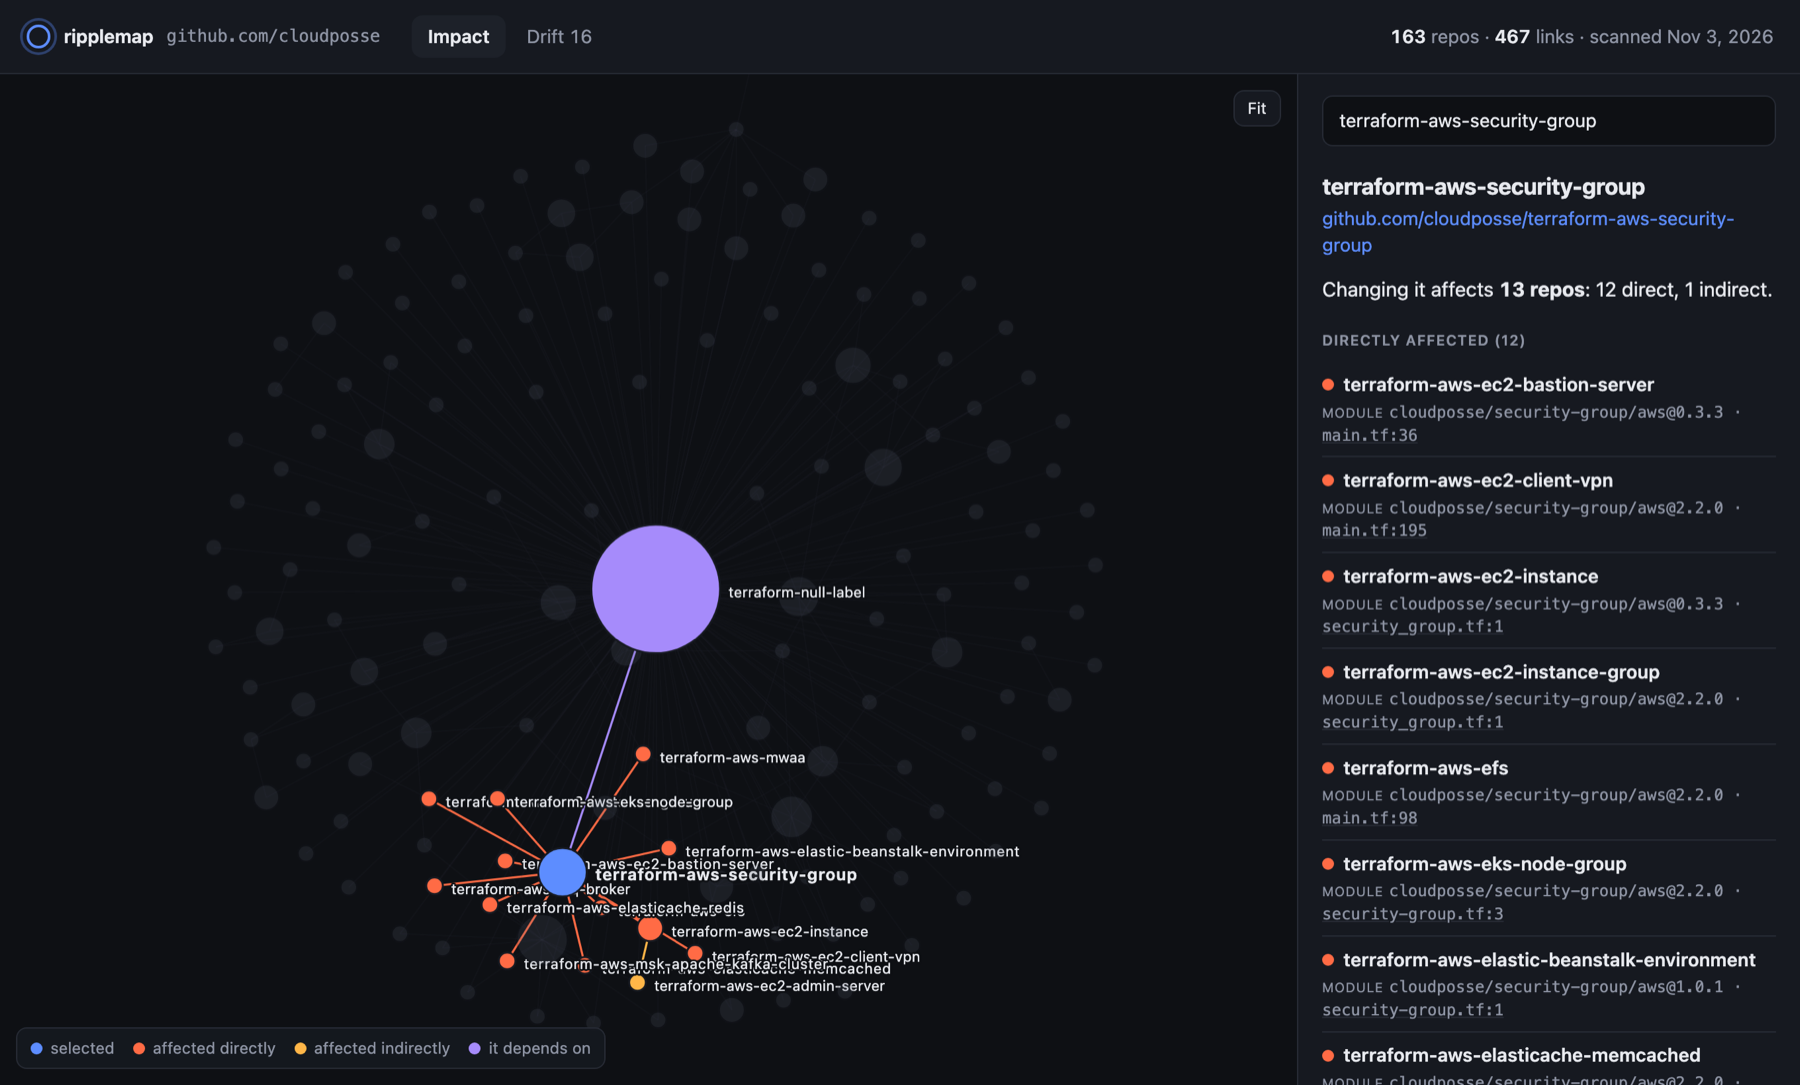
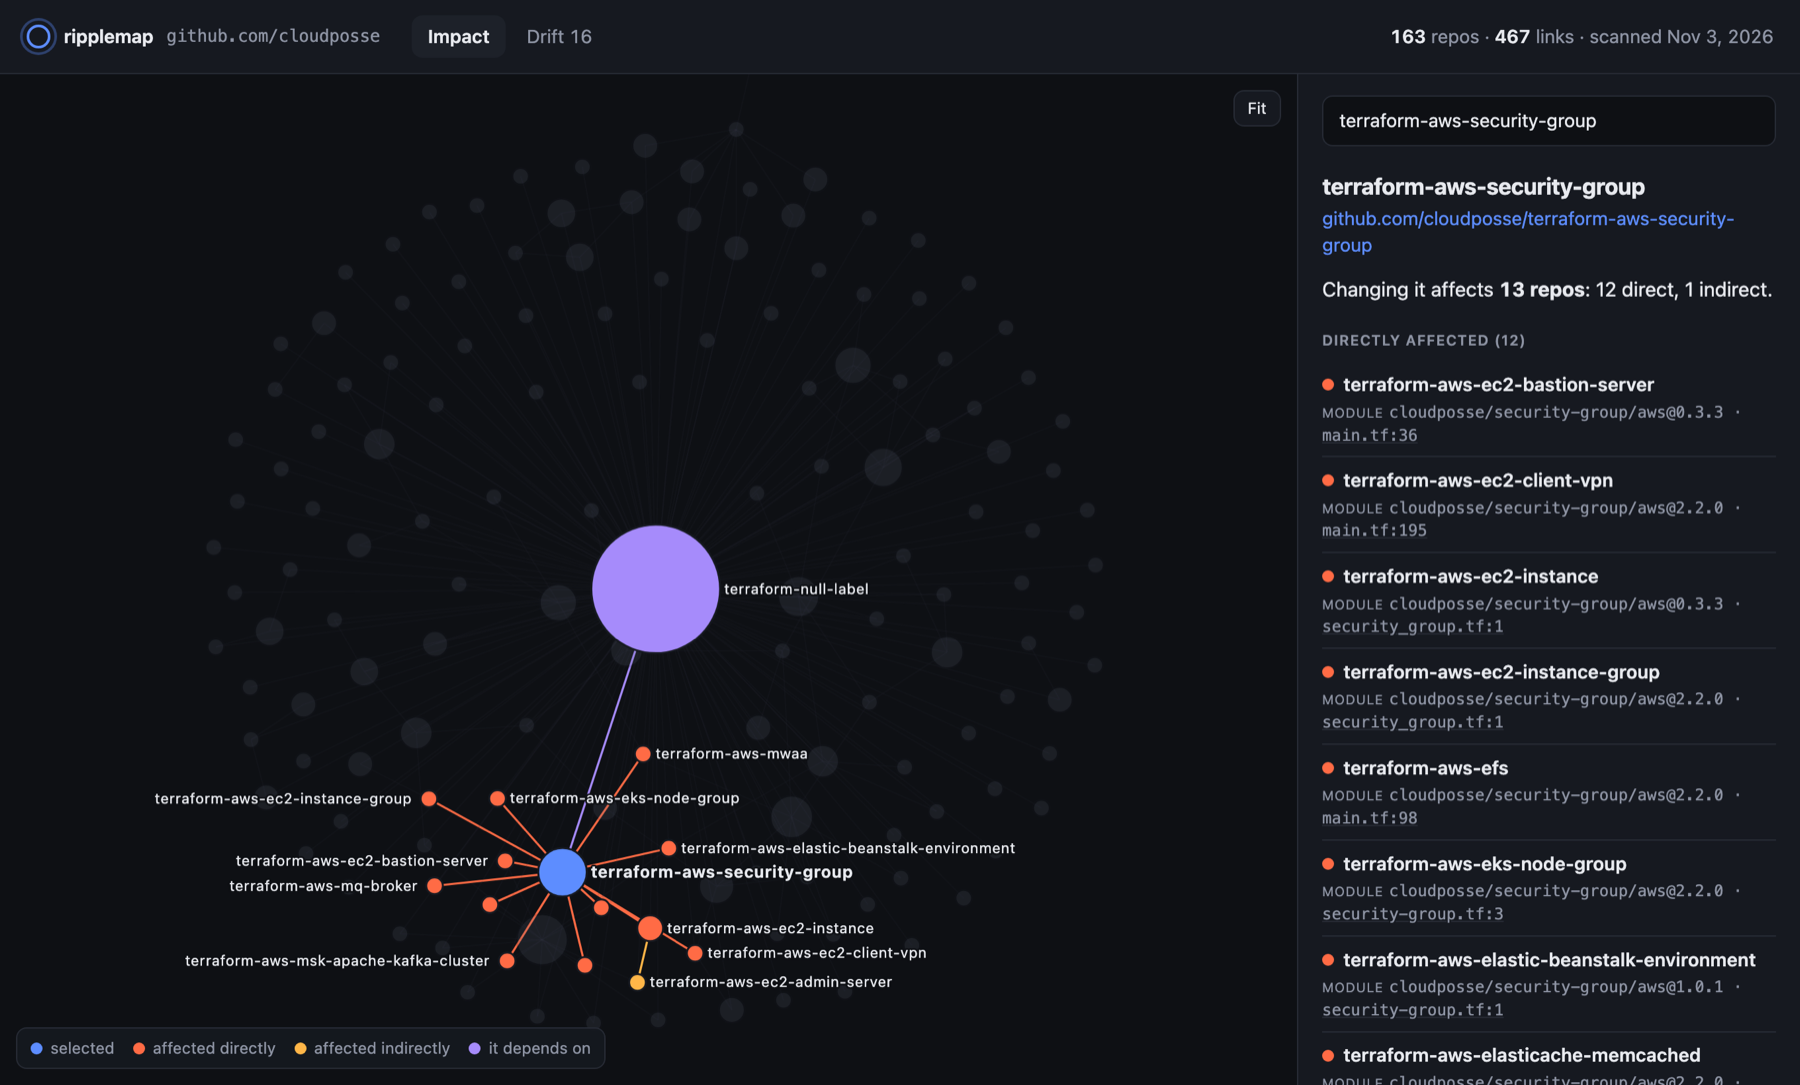
Report: collision-free labels and zoom to selection
Labels move to their own layer above every node and are placed in
priority order (selected, direct, depends-on, indirect; hubs in the
overview), trying four sides of each node and skipping any that would
overlap another label, a node, or the legend. Labels keep a constant
on-screen size and re-place on zoom and pan.

Selecting a repo from search, the list, drift or a #repo= link zooms
to it and everything it lights up.

diff --git a/assets/report.js b/assets/report.js
@@ -172,13 +172,6 @@
   const view = { x: 0, y: 0, k: 1 };
 
   const radius = (node) => 4 + Math.sqrt(node.consumers) * 2.2;
-  const hubs = new Set(
-    [...nodes]
-      .filter((n) => n.consumers > 0)
-      .sort((a, b) => b.consumers - a.consumers)
-      .slice(0, 12)
-      .map((n) => n.id),
-  );
 
   function draw() {
     for (const pair of pairs) {
@@ -186,15 +179,15 @@
       $('edges').append(pair.el);
     }
     for (const node of nodes) {
-      const r = radius(node);
-      node.el = svg('g', { class: `node${hubs.has(node.id) ? ' hub' : ''}` });
-      node.el.append(svg('circle', { r }));
-      const label = svg('text', { x: r + 4, y: 4 });
-      label.textContent = short(node.id);
-      node.el.append(label);
+      node.el = svg('g', { class: 'node' });
+      node.el.append(svg('circle', { r: radius(node) }));
       node.el.addEventListener('pointerenter', () => showTooltip(node));
       node.el.addEventListener('pointerleave', () => (tooltip.hidden = true));
       $('nodes').append(node.el);
+      // Labels live in their own layer above every circle, so no node can cover text.
+      node.label = svg('text', { class: 'label' });
+      node.label.textContent = short(node.id);
+      $('labels').append(node.label);
     }
     position();
   }
@@ -209,40 +202,134 @@
       pair.el.setAttribute('x2', b.x);
       pair.el.setAttribute('y2', b.y);
     }
+    scheduleLabels();
   }
 
   function applyView() {
     viewport.setAttribute('transform', `translate(${view.x},${view.y}) scale(${view.k})`);
     // Labels and outlines keep the same on-screen size at any zoom.
     graph.style.setProperty('--k', String(view.k));
+    scheduleLabels();
   }
 
-  function fit() {
-    if (!nodes.length) return;
-    // Fit the bulk of the graph; a few small separate groups shouldn't shrink everything else.
-    const trim = nodes.length >= 40 ? 0.03 : 0;
+  /** Zooms so `list` fills the graph. `trim` ignores that share of outliers on each side. */
+  function fitNodes(list, { trim = 0, maxZoom = 2.5, pad = 70 } = {}) {
+    if (!list.length) return;
     const range = (values) => {
       const sorted = [...values].sort((a, b) => a - b);
       const at = (q) => sorted[Math.min(sorted.length - 1, Math.max(0, Math.round(q * (sorted.length - 1))))];
       return [at(trim), at(1 - trim)];
     };
-    const [minX, maxX] = range(nodes.map((n) => n.x));
-    const [minY, maxY] = range(nodes.map((n) => n.y));
+    const [minX, maxX] = range(list.map((n) => n.x));
+    const [minY, maxY] = range(list.map((n) => n.y));
     const w = graph.clientWidth;
     const hgt = graph.clientHeight;
-    const pad = 70;
-    view.k = Math.min((w - pad * 2) / Math.max(maxX - minX, 1), (hgt - pad * 2) / Math.max(maxY - minY, 1), 2.5);
+    view.k = Math.min((w - pad * 2) / Math.max(maxX - minX, 1), (hgt - pad * 2) / Math.max(maxY - minY, 1), maxZoom);
     view.x = w / 2 - ((minX + maxX) / 2) * view.k;
     view.y = hgt / 2 - ((minY + maxY) / 2) * view.k;
     applyView();
   }
 
-  function centerOn(id) {
-    const node = nodeById.get(id);
-    if (!node) return;
-    view.x = graph.clientWidth / 2 - node.x * view.k;
-    view.y = graph.clientHeight / 2 - node.y * view.k;
-    applyView();
+  // The bulk of the graph; a few small separate groups shouldn't shrink everything else.
+  const fit = () => fitNodes(nodes, { trim: nodes.length >= 40 ? 0.03 : 0 });
+
+  /** Zooms to the selected repo and everything lit up with it, leaving room for their labels. */
+  function focusSelection() {
+    const lit = nodes.filter((n) => n.el.classList.contains('lit'));
+    if (lit.length === 1) {
+      view.k = Math.max(view.k, 1.5);
+      view.x = graph.clientWidth / 2 - lit[0].x * view.k;
+      view.y = graph.clientHeight / 2 - lit[0].y * view.k;
+      applyView();
+    } else {
+      fitNodes(lit, { maxZoom: 4, pad: 110 });
+    }
+  }
+
+  // ---------------------------------------------------------------------------
+  // Labels: show as many as fit without overlapping each other or any node, most important first.
+
+  const measure = document.createElement('canvas').getContext('2d');
+  const labelFont = getComputedStyle(document.body).fontFamily;
+  const LABEL = { normal: { size: 11, weight: 400, h: 13 }, strong: { size: 12.5, weight: 650, h: 15 } };
+
+  function textWidth(node, style) {
+    const key = style === LABEL.strong ? 'wStrong' : 'w';
+    if (node[key] === undefined) {
+      measure.font = `${style.weight} ${style.size}px ${labelFont}`;
+      // Canvas measures a little narrower than SVG renders; pad so labels never touch a dot.
+      node[key] = measure.measureText(short(node.id)).width * 1.06 + 2;
+    }
+    return node[key];
+  }
+
+  let labelFrame = 0;
+  function scheduleLabels() {
+    if (!labelFrame) labelFrame = requestAnimationFrame(placeLabels);
+  }
+
+  function placeLabels() {
+    labelFrame = 0;
+    const width = graph.clientWidth;
+    const height = graph.clientHeight;
+    const onScreen = (n) => ({ x: n.x * view.k + view.x, y: n.y * view.k + view.y, r: radius(n) * view.k });
+    const has = (n, cls) => n.el.classList.contains(cls);
+
+    let wanted;
+    let obstacles;
+    if (selected) {
+      const rank = (n) => (n.id === selected ? 0 : has(n, 'direct') ? 1 : has(n, 'dependency') ? 2 : 3);
+      wanted = nodes.filter((n) => has(n, 'lit')).sort((a, b) => rank(a) - rank(b) || b.consumers - a.consumers);
+      obstacles = wanted; // faded nodes may sit under a label
+    } else {
+      wanted = nodes.filter((n) => n.consumers > 0).sort((a, b) => b.consumers - a.consumers).slice(0, 40);
+      // Only the hubs block labels; small leaves can sit under the text, which has an outline.
+      obstacles = wanted;
+    }
+    const mustShow = selected ? nodeById.get(selected) : wanted[0];
+    const circles = obstacles.map((n) => ({ node: n, ...onScreen(n) }));
+    // The legend and the Fit button float over the graph, so labels avoid them too.
+    const box = graph.getBoundingClientRect();
+    const placed = [...document.querySelectorAll('.legend, #fit')].map((el) => {
+      const r = el.getBoundingClientRect();
+      return { x: r.left - box.left - 4, y: r.top - box.top - 4, w: r.width + 8, h: r.height + 8 };
+    });
+
+    const hitsLabel = (a) => placed.some((b) => a.x < b.x + b.w && b.x < a.x + a.w && a.y < b.y + b.h && b.y < a.y + a.h);
+    const hitsNode = (rect) =>
+      circles.some((c) => {
+        const cx = Math.max(rect.x, Math.min(c.x, rect.x + rect.w));
+        const cy = Math.max(rect.y, Math.min(c.y, rect.y + rect.h));
+        return (c.x - cx) ** 2 + (c.y - cy) ** 2 < (c.r + 1.5) ** 2;
+      });
+    const inView = (rect) => rect.x >= 4 && rect.y >= 4 && rect.x + rect.w <= width - 4 && rect.y + rect.h <= height - 4;
+
+    const shown = new Set();
+    for (const node of wanted) {
+      const c = onScreen(node);
+      const style = node.id === selected ? LABEL.strong : LABEL.normal;
+      const w = textWidth(node, style);
+      const h = style.h;
+      const gap = 3;
+      const candidates = [
+        { x: c.x + c.r + gap, y: c.y - h / 2 },
+        { x: c.x - c.r - gap - w, y: c.y - h / 2 },
+        { x: c.x - w / 2, y: c.y - c.r - gap - h },
+        { x: c.x - w / 2, y: c.y + c.r + gap },
+      ].map((p) => ({ ...p, w, h }));
+      let spot = candidates.find((r) => inView(r) && !hitsLabel(r) && !hitsNode(r));
+      // The selected repo (or the biggest hub) is always named, even if it has to overlap something.
+      if (!spot && node === mustShow) spot = candidates.find((r) => !hitsLabel(r)) || candidates[0];
+      if (!spot) continue;
+      placed.push(spot);
+      shown.add(node);
+      node.label.setAttribute('x', (spot.x - view.x) / view.k);
+      node.label.setAttribute('y', (spot.y + h * 0.78 - view.y) / view.k);
+    }
+    for (const node of nodes) {
+      node.label.classList.toggle('placed', shown.has(node));
+      node.label.classList.toggle('strong', node.id === selected);
+    }
   }
 
   function showTooltip(node) {
@@ -321,6 +408,7 @@
       pair.el.classList.remove('hot', 'indirect', 'dep');
       pair.el.style.display = [...pair.kinds].some((k) => enabledKinds.has(k)) ? '' : 'none';
     }
+    scheduleLabels();
     if (!selected) return;
 
     const affected = impactOf(selected);
@@ -363,7 +451,7 @@
   function repoButton(id, dotClass, ...extra) {
     return h(
       'button',
-      { class: 'repo-link', onclick: () => select(id, { center: true }) },
+      { class: 'repo-link', onclick: () => select(id, { focus: true }) },
       dotClass ? h('i', { class: `dot ${dotClass}` }) : null,
       short(id),
       ...extra,
@@ -445,7 +533,7 @@
     renderDetails();
     $('search').value = id ? short(id) : '';
     history.replaceState(null, '', id ? `#repo=${encodeURIComponent(id)}` : location.pathname + location.search);
-    if (id && options.center) centerOn(id);
+    if (id && options.focus) focusSelection();
   }
 
   function setUpSearch() {
@@ -462,7 +550,7 @@
     };
     const go = () => {
       const repo = find(input.value);
-      if (repo) select(repo.id, { center: true });
+      if (repo) select(repo.id, { focus: true });
     };
     input.addEventListener('change', go);
     input.addEventListener('keydown', (e) => {
@@ -498,7 +586,7 @@
   function repoChips(repos) {
     const COLLAPSED = 6;
     const box = h('div', { class: 'repos' });
-    const chip = (repo) => h('button', { class: 'repo-chip', onclick: () => select(repo, { center: true }) }, short(repo));
+    const chip = (repo) => h('button', { class: 'repo-chip', onclick: () => select(repo, { focus: true }) }, short(repo));
     const show = (all) => {
       const visible = all || repos.length <= COLLAPSED + 2 ? repos : repos.slice(0, COLLAPSED);
       box.replaceChildren(...visible.map(chip));
@@ -559,7 +647,7 @@
     $('tab-drift').hidden = name !== 'drift';
     if (name === 'impact' && !fitted) {
       fitted = true;
-      requestAnimationFrame(fit);
+      requestAnimationFrame(() => (selected ? focusSelection() : fit()));
     }
   }
 
@@ -590,7 +678,7 @@
   /** Links like report.html#repo=acme/api open with that repo selected. */
   function selectFromHash() {
     const id = decodeURIComponent((location.hash.match(/^#repo=(.+)$/) || [])[1] || '');
-    select(data.repos.some((r) => r.id === id) ? id : null);
+    select(data.repos.some((r) => r.id === id) ? id : null, { focus: true });
   }
 
   showTab('impact');

diff --git a/assets/report.css b/assets/report.css
@@ -103,20 +103,20 @@ main { flex: 1; min-height: 0; display: flex; }
 
 .node { cursor: pointer; }
 .node circle { fill: var(--node); stroke: var(--surface); stroke-width: calc(1.5px / var(--k, 1)); transition: fill 120ms, opacity 120ms; }
-.node text {
+/* Placed by placeLabels(): only labels with room of their own are shown. */
+.label {
   font-size: calc(11px / var(--k, 1)); fill: var(--text); paint-order: stroke; stroke: var(--bg);
-  stroke-width: calc(3px / var(--k, 1)); stroke-linejoin: round; pointer-events: none; opacity: 0; transition: opacity 120ms;
+  stroke-width: calc(3px / var(--k, 1)); stroke-linejoin: round; pointer-events: none; display: none;
 }
-.node.hub text, .node.lit text, .node:hover text { opacity: 1; }
+.label.placed { display: inline; }
+.label.strong { font-weight: 650; font-size: calc(12.5px / var(--k, 1)); }
 .node:hover circle { stroke: var(--text); }
 .node.selected circle { fill: var(--selected); }
 .node.direct circle { fill: var(--direct); }
 .node.indirect circle { fill: var(--indirect); }
 .node.dependency circle { fill: var(--dependency); }
-.node.selected text { font-weight: 650; font-size: calc(12.5px / var(--k, 1)); }
 
 #graph.focus .node:not(.lit) circle { opacity: 0.18; }
-#graph.focus .node:not(.lit):not(:hover) text { opacity: 0; }
 #graph.focus .edge:not(.hot):not(.dep) { opacity: 0.12; }
 
 .graph-tools { position: absolute; top: 12px; left: 12px; right: 12px; display: flex; gap: 8px; align-items: flex-start; pointer-events: none; }

diff --git a/src/report.ts b/src/report.ts
@@ -63,7 +63,7 @@ ${asset('report.css')}
 <main>
   <section id="tab-impact" class="tab impact">
     <div class="graph-wrap">
-      <svg id="graph" role="img" aria-label="Dependency graph"><g id="viewport"><g id="edges"></g><g id="nodes"></g></g></svg>
+      <svg id="graph" role="img" aria-label="Dependency graph"><g id="viewport"><g id="edges"></g><g id="nodes"></g><g id="labels"></g></g></svg>
       <div class="graph-tools">
         <div class="kinds" id="kinds"></div>
         <button id="fit" title="Fit to screen">Fit</button>
